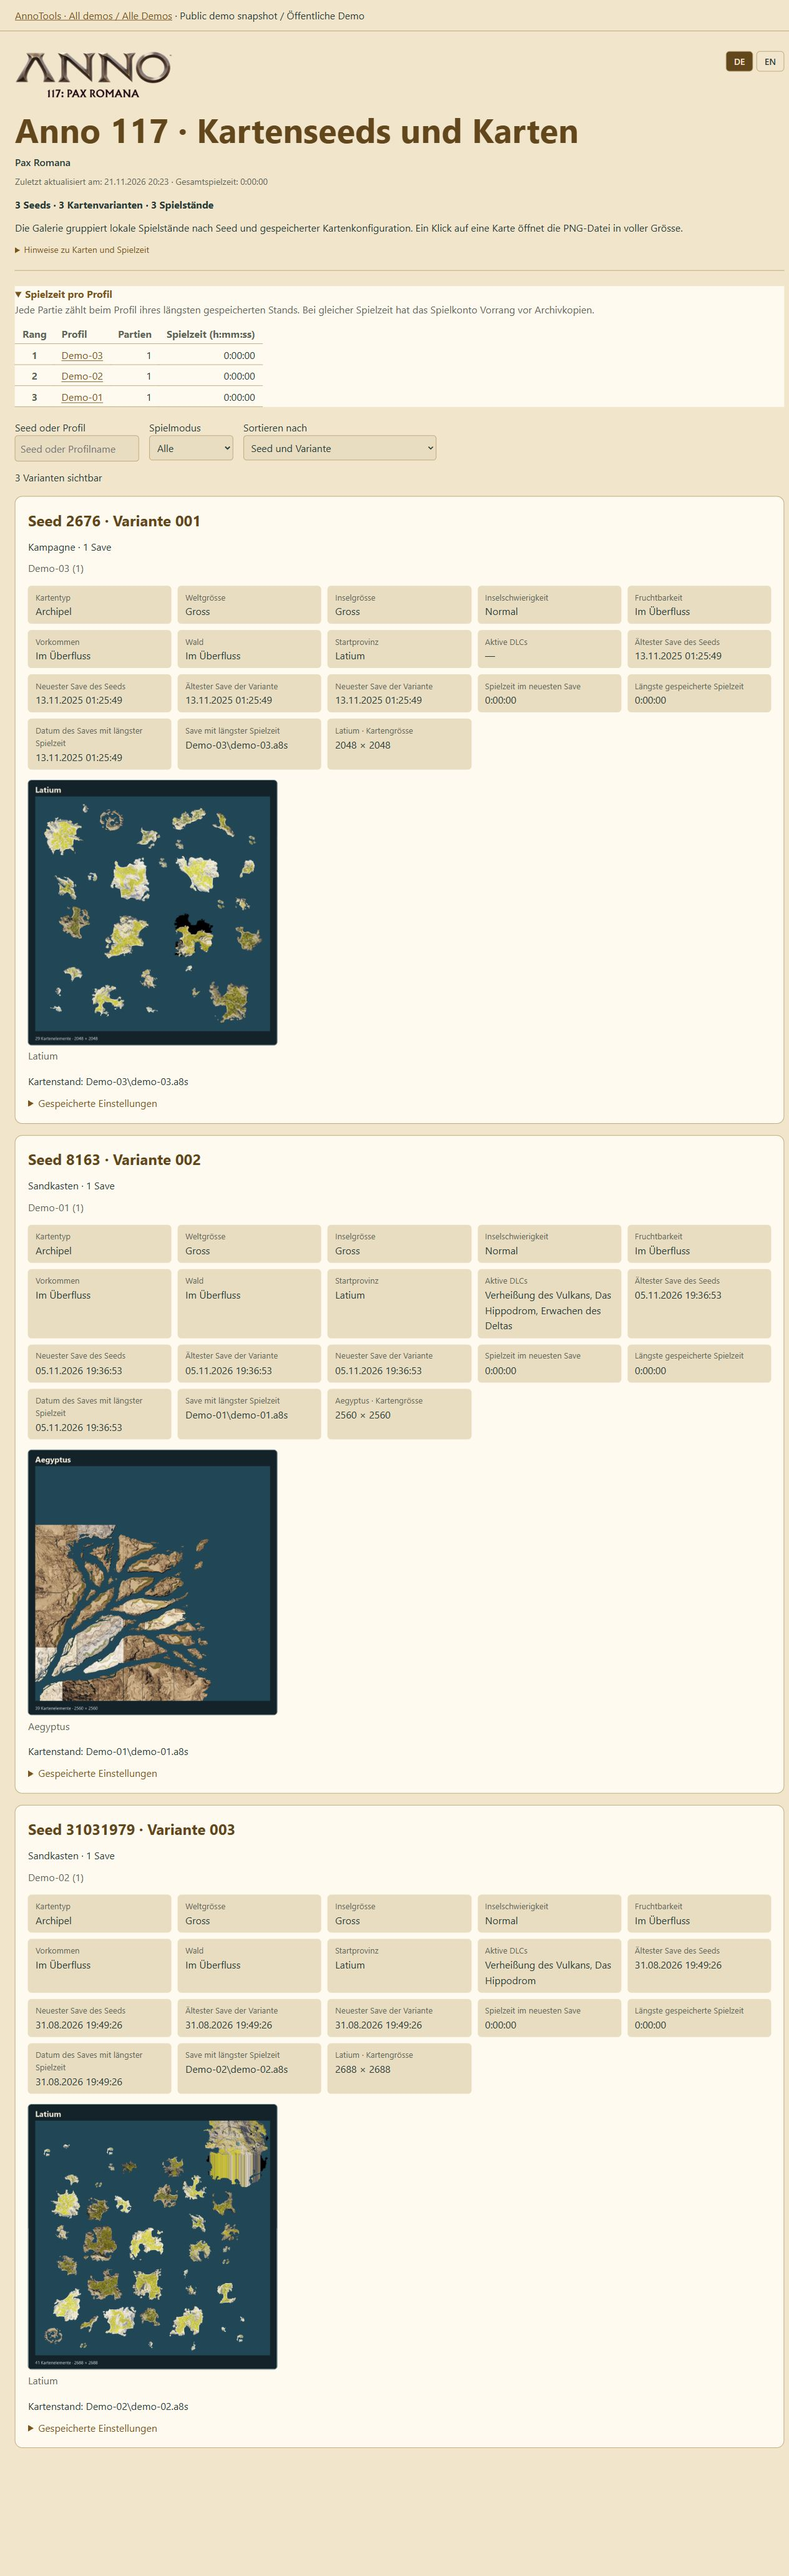
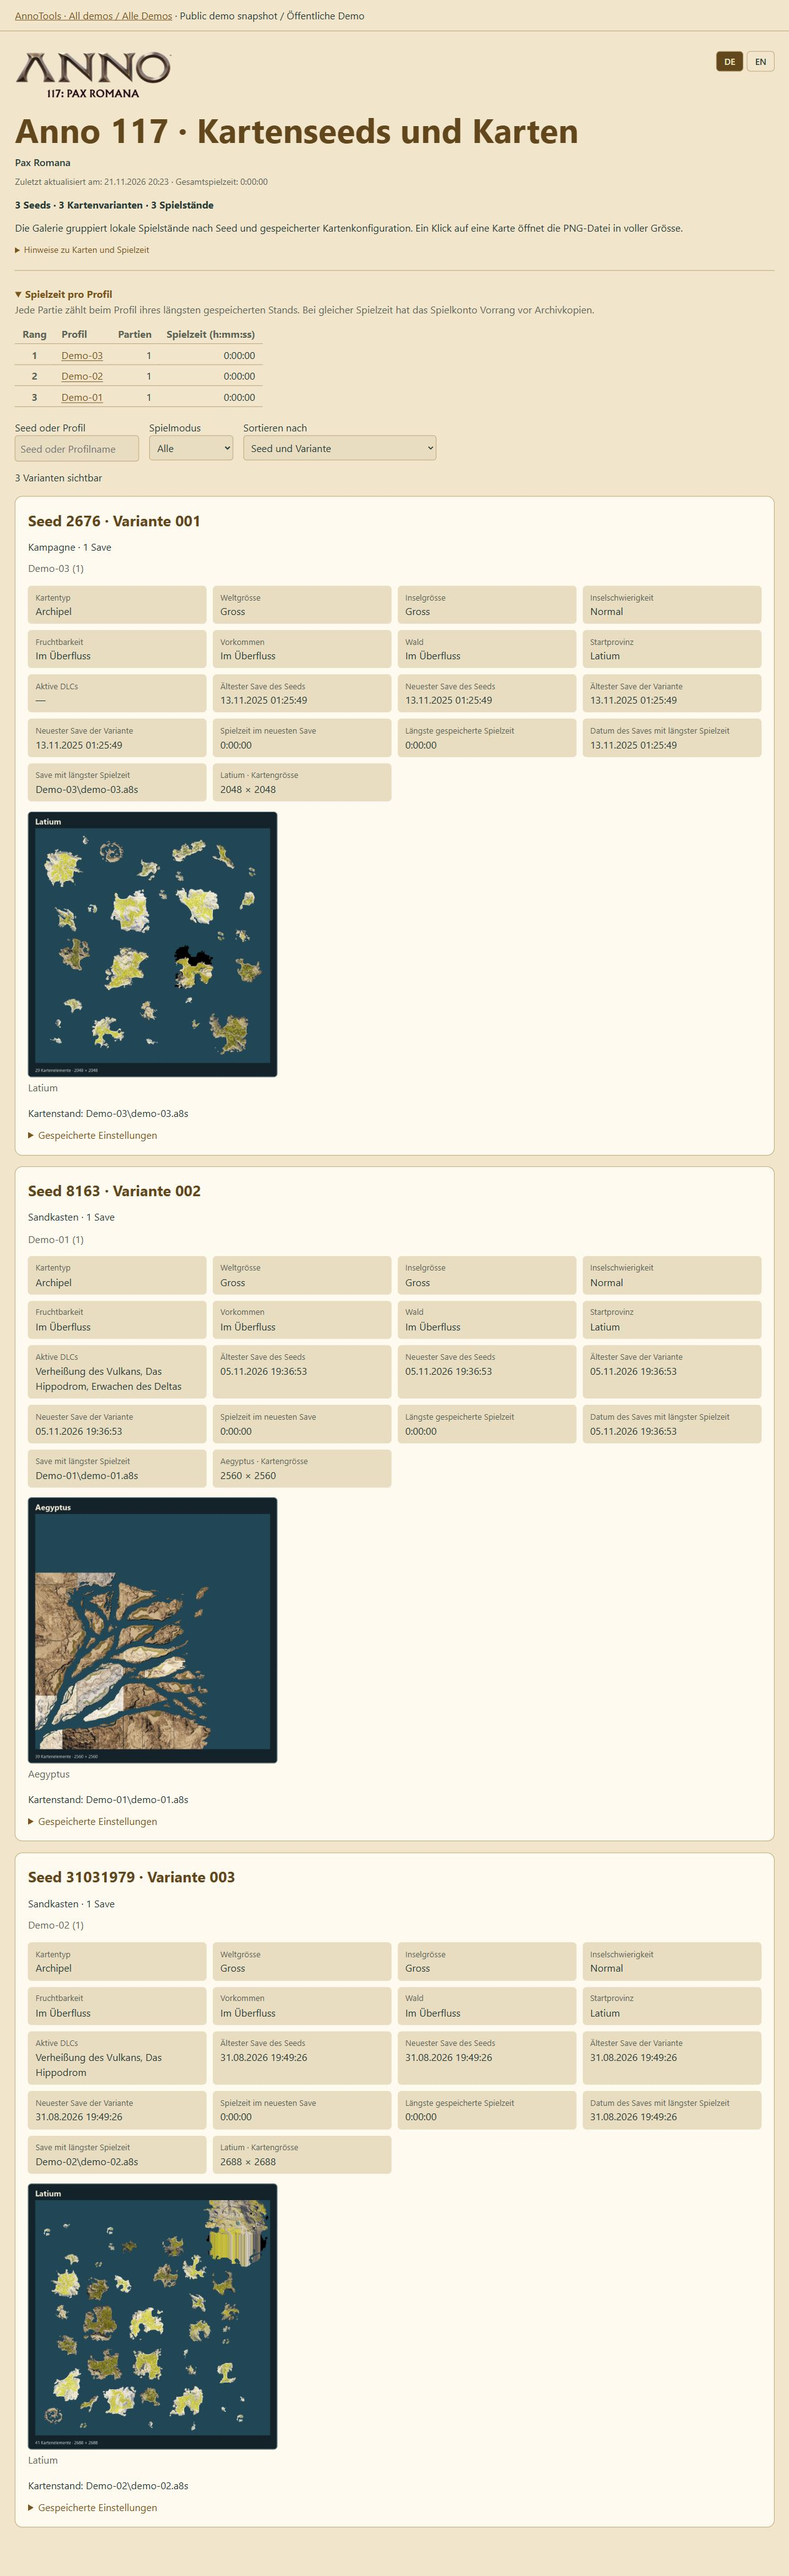
fix: unify map profile background and refresh previews - Mithilfe von Codex

Changed region(s): [[0.0, 0.1861, 1.0, 0.9927], [0.0, 0.0931, 1.0, 0.1551], [0.8948, 0.0, 0.9565, 0.031]]

diff --git a/anno117/tools/gallery_templates/map_gallery.css b/anno117/tools/gallery_templates/map_gallery.css
@@ -17,7 +17,7 @@ body.gallery-map { margin: 0; padding: 0; max-width: none; min-height: 100vh; ba
 .gallery-map a, .gallery-map summary { color: var(--gallery-link); }
 .gallery-map input, .gallery-map select, .gallery-map button { background: var(--gallery-inset); color: var(--gallery-ink); border-color: var(--gallery-border); }
 .gallery-map td, .gallery-map th { color: var(--gallery-ink); border-color: var(--gallery-border); }
-.gallery-map .profile-ranking { background: var(--gallery-surface); border-color: var(--gallery-border); color: var(--gallery-ink); }
+.gallery-map .profile-ranking { background: transparent; border-color: var(--gallery-border); color: var(--gallery-ink); }
 .gallery-map .profile-ranking p, .gallery-map .profile-ranking th { color: var(--gallery-muted); }
 .gallery-map article img { background: var(--gallery-inset); }
 .gallery-map .gallery-footer { margin-top: 36px; font-size: 12px; color: var(--gallery-muted); }

diff --git a/anno1404/tools/gallery_templates/map_gallery.css b/anno1404/tools/gallery_templates/map_gallery.css
@@ -17,7 +17,7 @@ body.gallery-map { margin: 0; padding: 0; max-width: none; min-height: 100vh; ba
 .gallery-map a, .gallery-map summary { color: var(--gallery-link); }
 .gallery-map input, .gallery-map select, .gallery-map button { background: var(--gallery-inset); color: var(--gallery-ink); border-color: var(--gallery-border); }
 .gallery-map td, .gallery-map th { color: var(--gallery-ink); border-color: var(--gallery-border); }
-.gallery-map .profile-ranking { background: var(--gallery-surface); border-color: var(--gallery-border); color: var(--gallery-ink); }
+.gallery-map .profile-ranking { background: transparent; border-color: var(--gallery-border); color: var(--gallery-ink); }
 .gallery-map .profile-ranking p, .gallery-map .profile-ranking th { color: var(--gallery-muted); }
 .gallery-map article img { background: var(--gallery-inset); }
 .gallery-map .gallery-footer { margin-top: 36px; font-size: 12px; color: var(--gallery-muted); }

diff --git a/anno1800/tools/gallery_templates/map_gallery.css b/anno1800/tools/gallery_templates/map_gallery.css
@@ -17,7 +17,7 @@ body.gallery-map { margin: 0; padding: 0; max-width: none; min-height: 100vh; ba
 .gallery-map a, .gallery-map summary { color: var(--gallery-link); }
 .gallery-map input, .gallery-map select, .gallery-map button { background: var(--gallery-inset); color: var(--gallery-ink); border-color: var(--gallery-border); }
 .gallery-map td, .gallery-map th { color: var(--gallery-ink); border-color: var(--gallery-border); }
-.gallery-map .profile-ranking { background: var(--gallery-surface); border-color: var(--gallery-border); color: var(--gallery-ink); }
+.gallery-map .profile-ranking { background: transparent; border-color: var(--gallery-border); color: var(--gallery-ink); }
 .gallery-map .profile-ranking p, .gallery-map .profile-ranking th { color: var(--gallery-muted); }
 .gallery-map article img { background: var(--gallery-inset); }
 .gallery-map .gallery-footer { margin-top: 36px; font-size: 12px; color: var(--gallery-muted); }

diff --git a/site/anno117/maps/index.html b/site/anno117/maps/index.html
@@ -69,7 +69,7 @@ body.gallery-map { margin: 0; padding: 0; max-width: none; min-height: 100vh; ba
 .gallery-map a, .gallery-map summary { color: var(--gallery-link); }
 .gallery-map input, .gallery-map select, .gallery-map button { background: var(--gallery-inset); color: var(--gallery-ink); border-color: var(--gallery-border); }
 .gallery-map td, .gallery-map th { color: var(--gallery-ink); border-color: var(--gallery-border); }
-.gallery-map .profile-ranking { background: var(--gallery-surface); border-color: var(--gallery-border); color: var(--gallery-ink); }
+.gallery-map .profile-ranking { background: transparent; border-color: var(--gallery-border); color: var(--gallery-ink); }
 .gallery-map .profile-ranking p, .gallery-map .profile-ranking th { color: var(--gallery-muted); }
 .gallery-map article img { background: var(--gallery-inset); }
 .gallery-map .gallery-footer { margin-top: 36px; font-size: 12px; color: var(--gallery-muted); }

diff --git a/site/anno1404/maps/index.html b/site/anno1404/maps/index.html
@@ -60,7 +60,7 @@ body.gallery-map { margin: 0; padding: 0; max-width: none; min-height: 100vh; ba
 .gallery-map a, .gallery-map summary { color: var(--gallery-link); }
 .gallery-map input, .gallery-map select, .gallery-map button { background: var(--gallery-inset); color: var(--gallery-ink); border-color: var(--gallery-border); }
 .gallery-map td, .gallery-map th { color: var(--gallery-ink); border-color: var(--gallery-border); }
-.gallery-map .profile-ranking { background: var(--gallery-surface); border-color: var(--gallery-border); color: var(--gallery-ink); }
+.gallery-map .profile-ranking { background: transparent; border-color: var(--gallery-border); color: var(--gallery-ink); }
 .gallery-map .profile-ranking p, .gallery-map .profile-ranking th { color: var(--gallery-muted); }
 .gallery-map article img { background: var(--gallery-inset); }
 .gallery-map .gallery-footer { margin-top: 36px; font-size: 12px; color: var(--gallery-muted); }

diff --git a/site/anno1800/maps/index.html b/site/anno1800/maps/index.html
@@ -48,7 +48,7 @@ body.gallery-map { margin: 0; padding: 0; max-width: none; min-height: 100vh; ba
 .gallery-map a, .gallery-map summary { color: var(--gallery-link); }
 .gallery-map input, .gallery-map select, .gallery-map button { background: var(--gallery-inset); color: var(--gallery-ink); border-color: var(--gallery-border); }
 .gallery-map td, .gallery-map th { color: var(--gallery-ink); border-color: var(--gallery-border); }
-.gallery-map .profile-ranking { background: var(--gallery-surface); border-color: var(--gallery-border); color: var(--gallery-ink); }
+.gallery-map .profile-ranking { background: transparent; border-color: var(--gallery-border); color: var(--gallery-ink); }
 .gallery-map .profile-ranking p, .gallery-map .profile-ranking th { color: var(--gallery-muted); }
 .gallery-map article img { background: var(--gallery-inset); }
 .gallery-map .gallery-footer { margin-top: 36px; font-size: 12px; color: var(--gallery-muted); }

diff --git a/templates/map_gallery.css b/templates/map_gallery.css
@@ -17,7 +17,7 @@ body.gallery-map { margin: 0; padding: 0; max-width: none; min-height: 100vh; ba
 .gallery-map a, .gallery-map summary { color: var(--gallery-link); }
 .gallery-map input, .gallery-map select, .gallery-map button { background: var(--gallery-inset); color: var(--gallery-ink); border-color: var(--gallery-border); }
 .gallery-map td, .gallery-map th { color: var(--gallery-ink); border-color: var(--gallery-border); }
-.gallery-map .profile-ranking { background: var(--gallery-surface); border-color: var(--gallery-border); color: var(--gallery-ink); }
+.gallery-map .profile-ranking { background: transparent; border-color: var(--gallery-border); color: var(--gallery-ink); }
 .gallery-map .profile-ranking p, .gallery-map .profile-ranking th { color: var(--gallery-muted); }
 .gallery-map article img { background: var(--gallery-inset); }
 .gallery-map .gallery-footer { margin-top: 36px; font-size: 12px; color: var(--gallery-muted); }
